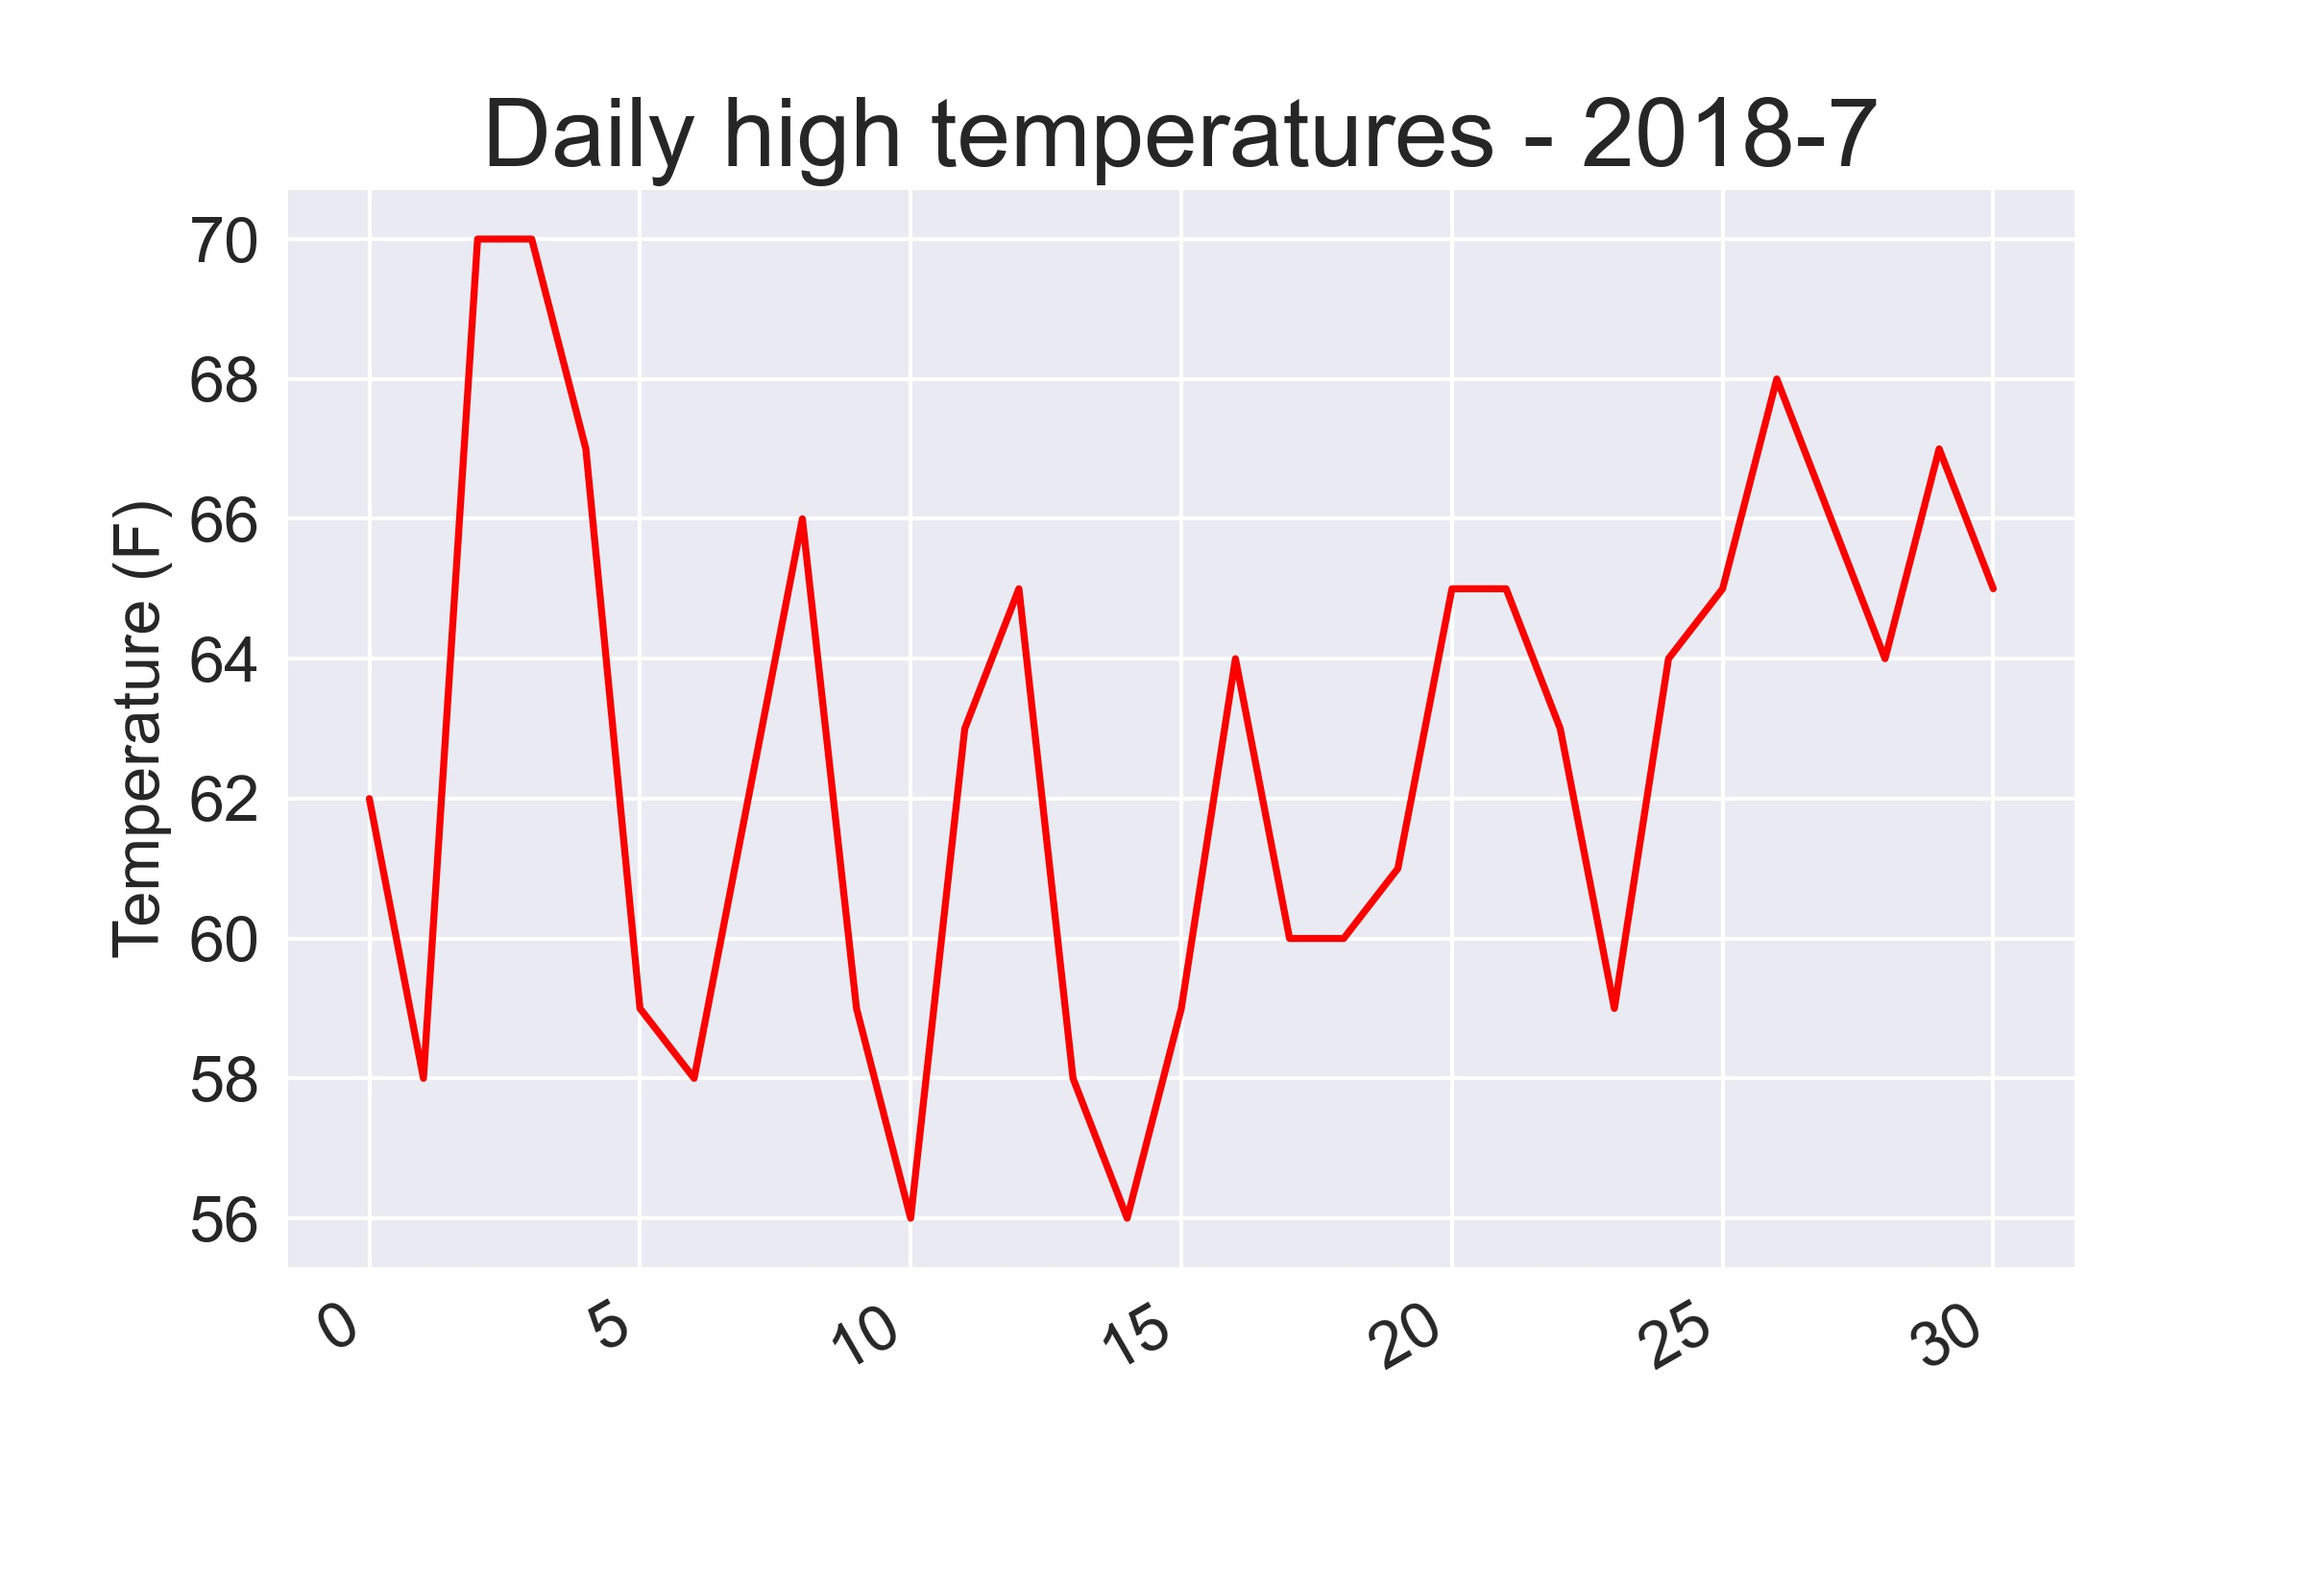
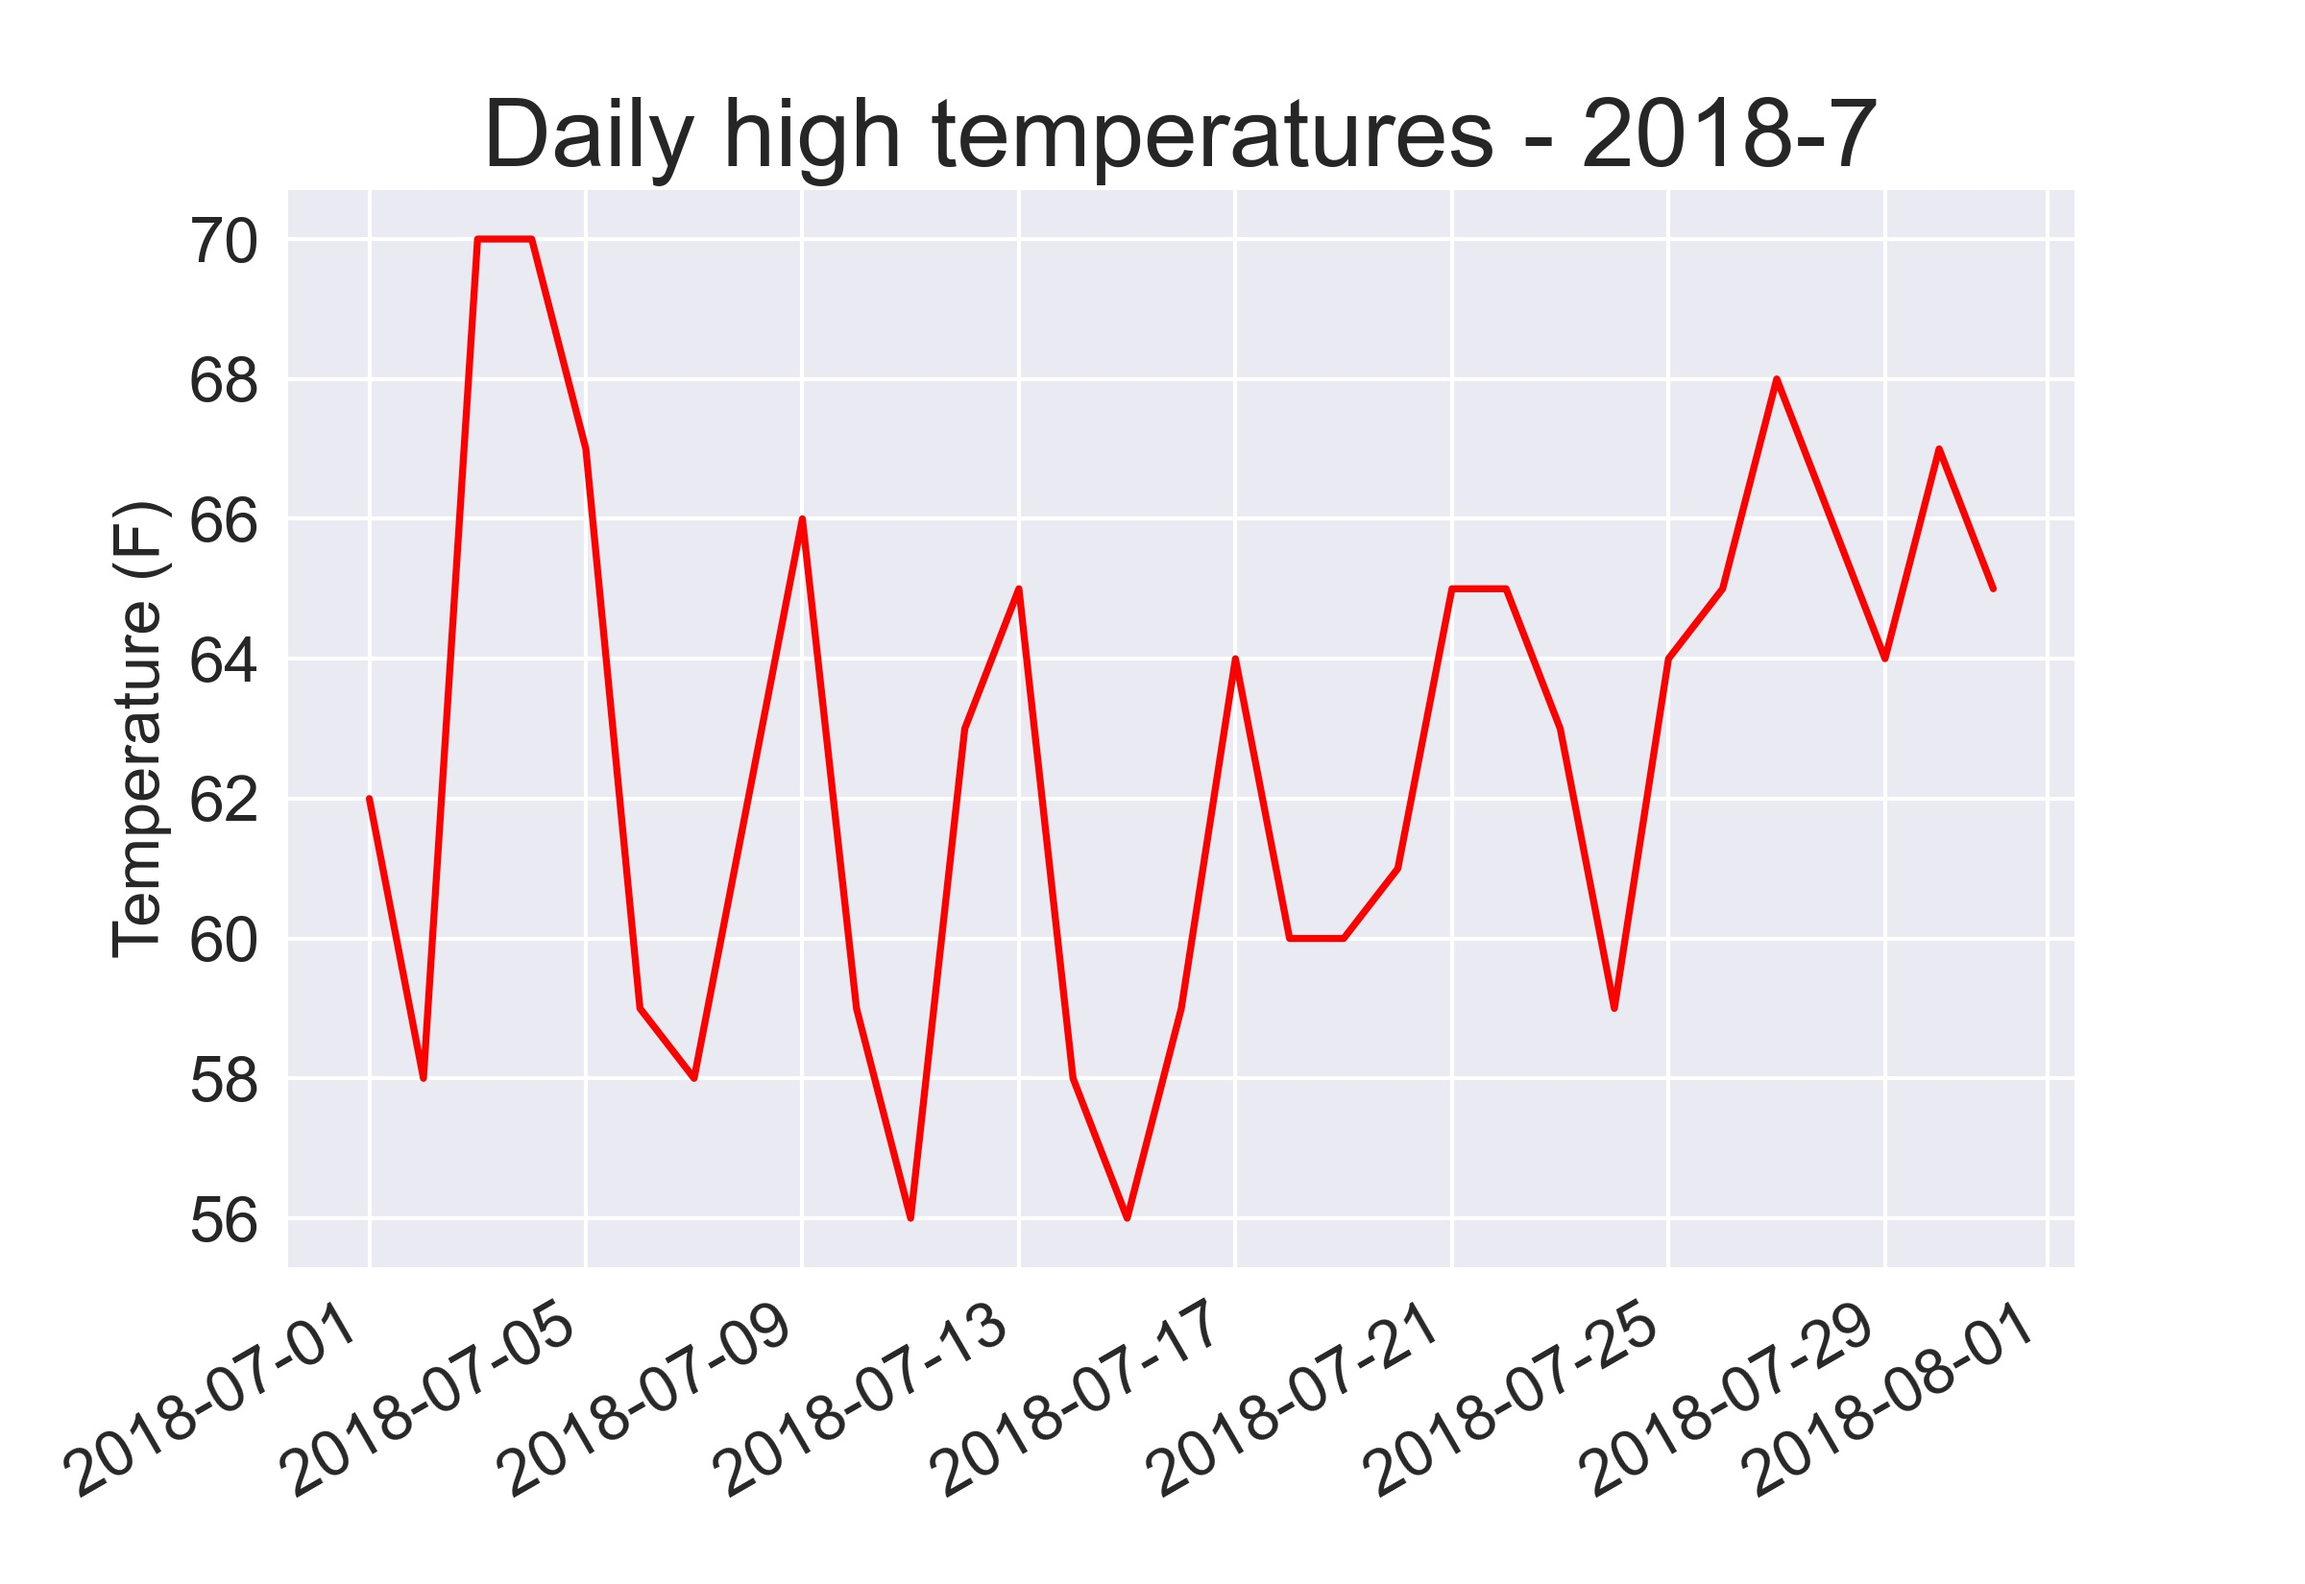
2

diff --git a/index.html b/index.html
@@ -47,6 +47,7 @@ with open(filename) as f:
                     </div>
                     <div class="fragment">
                         <pre><code class="output" data-trim contenteditable>
+['STATION', 'NAME', 'DATE', 'PRCP', 'TAVG', 'TMAX', 'TMIN']
 0 STATION
 1 NAME
 2 DATE
@@ -234,7 +235,7 @@ import csv
 from datetime import datetime
 from matplotlib import pyplot as plt
 
-filename = 'data/death_valley_2018_simple.csv'
+filename = 'death_valley_2018_simple.csv'
 with open(filename) as f:
     reader = csv.reader(f)
     header_row = next(reader)
@@ -327,6 +328,7 @@ for btc_dict in btc_data:
 import matplotlib.pyplot as plt
 
 plt.rcParams['font.sans-serif'] = ['SimHei']
+#plt.rcParams['font.sans-serif'] = ['Arial Unicode MS']
 plt.style.use('ggplot')
 plt.plot(close, linewidth=0.5)
 plt.scatter(date,close, s=5)
